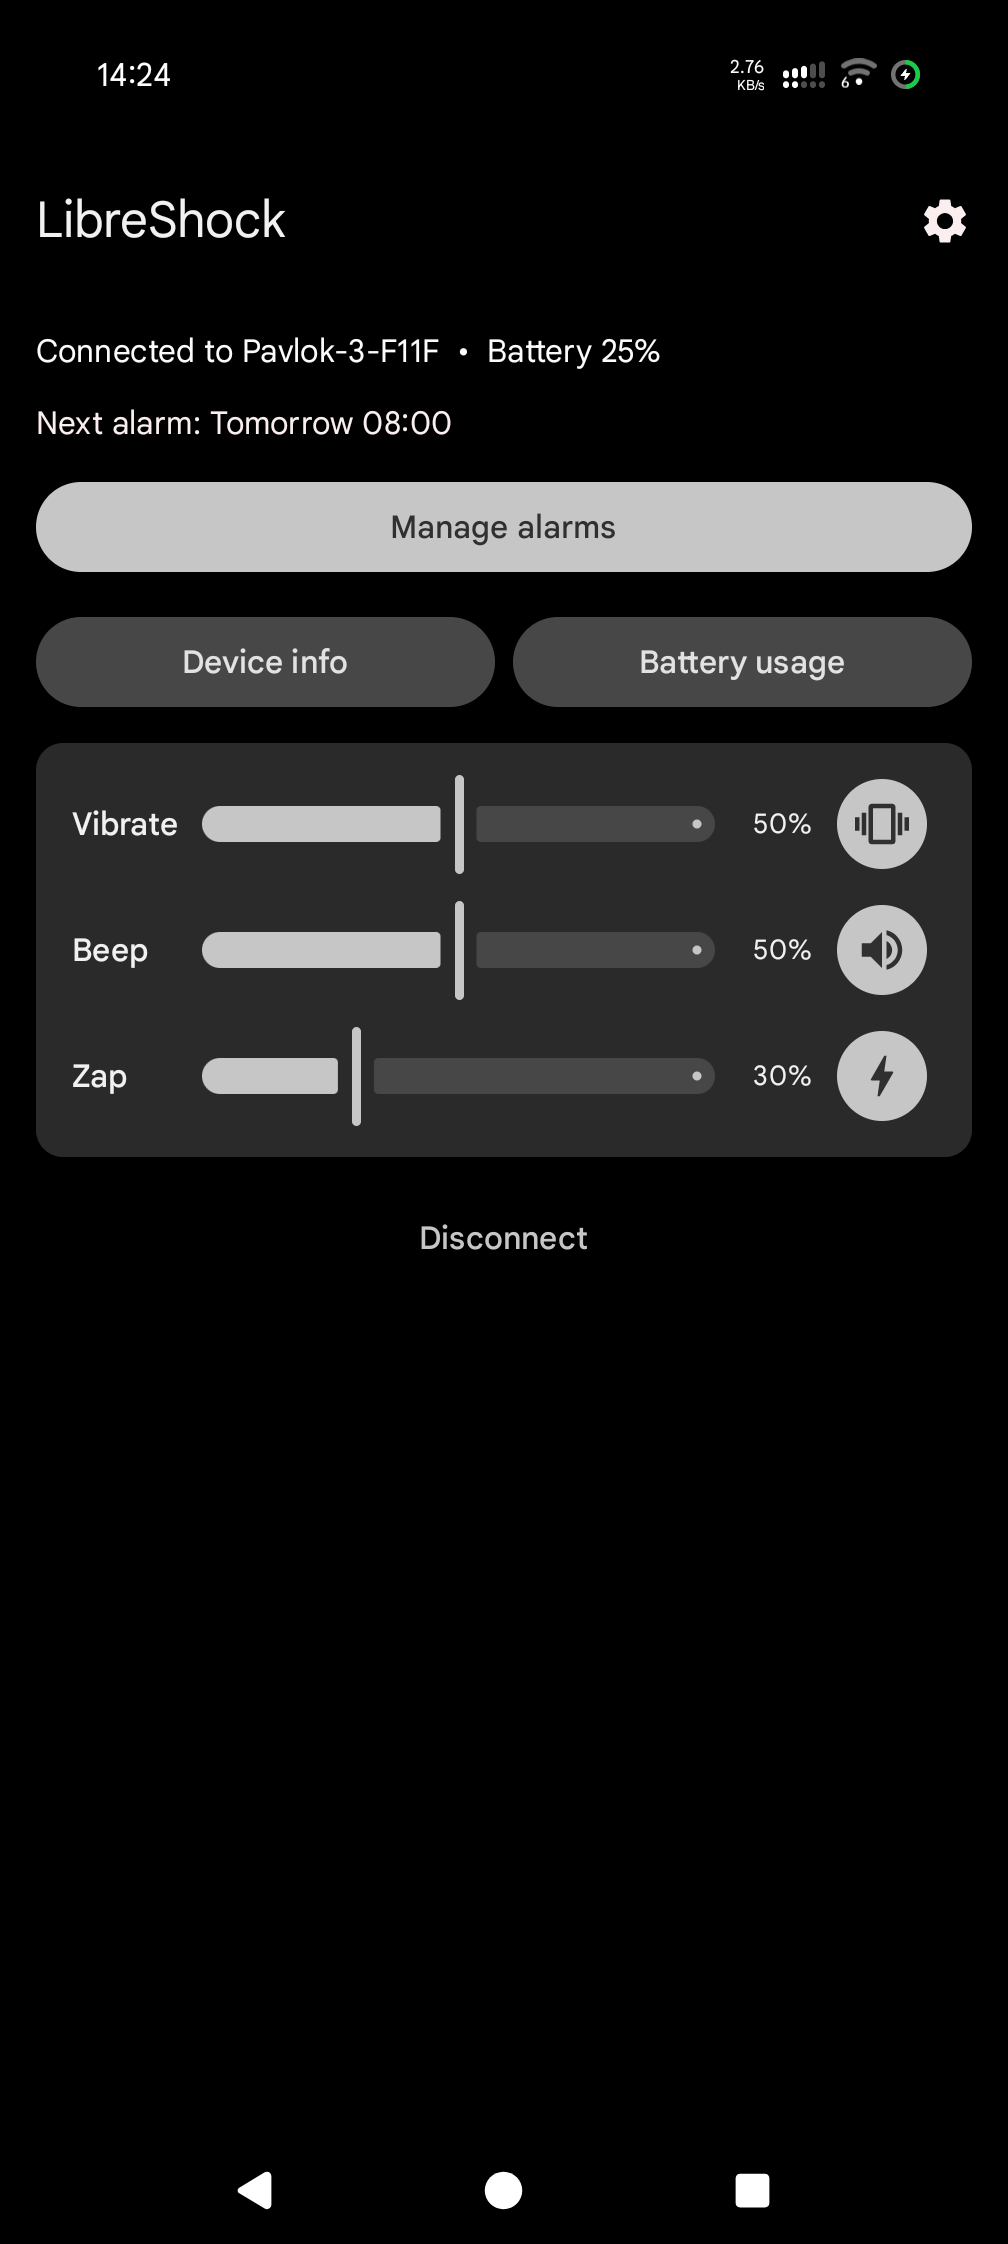
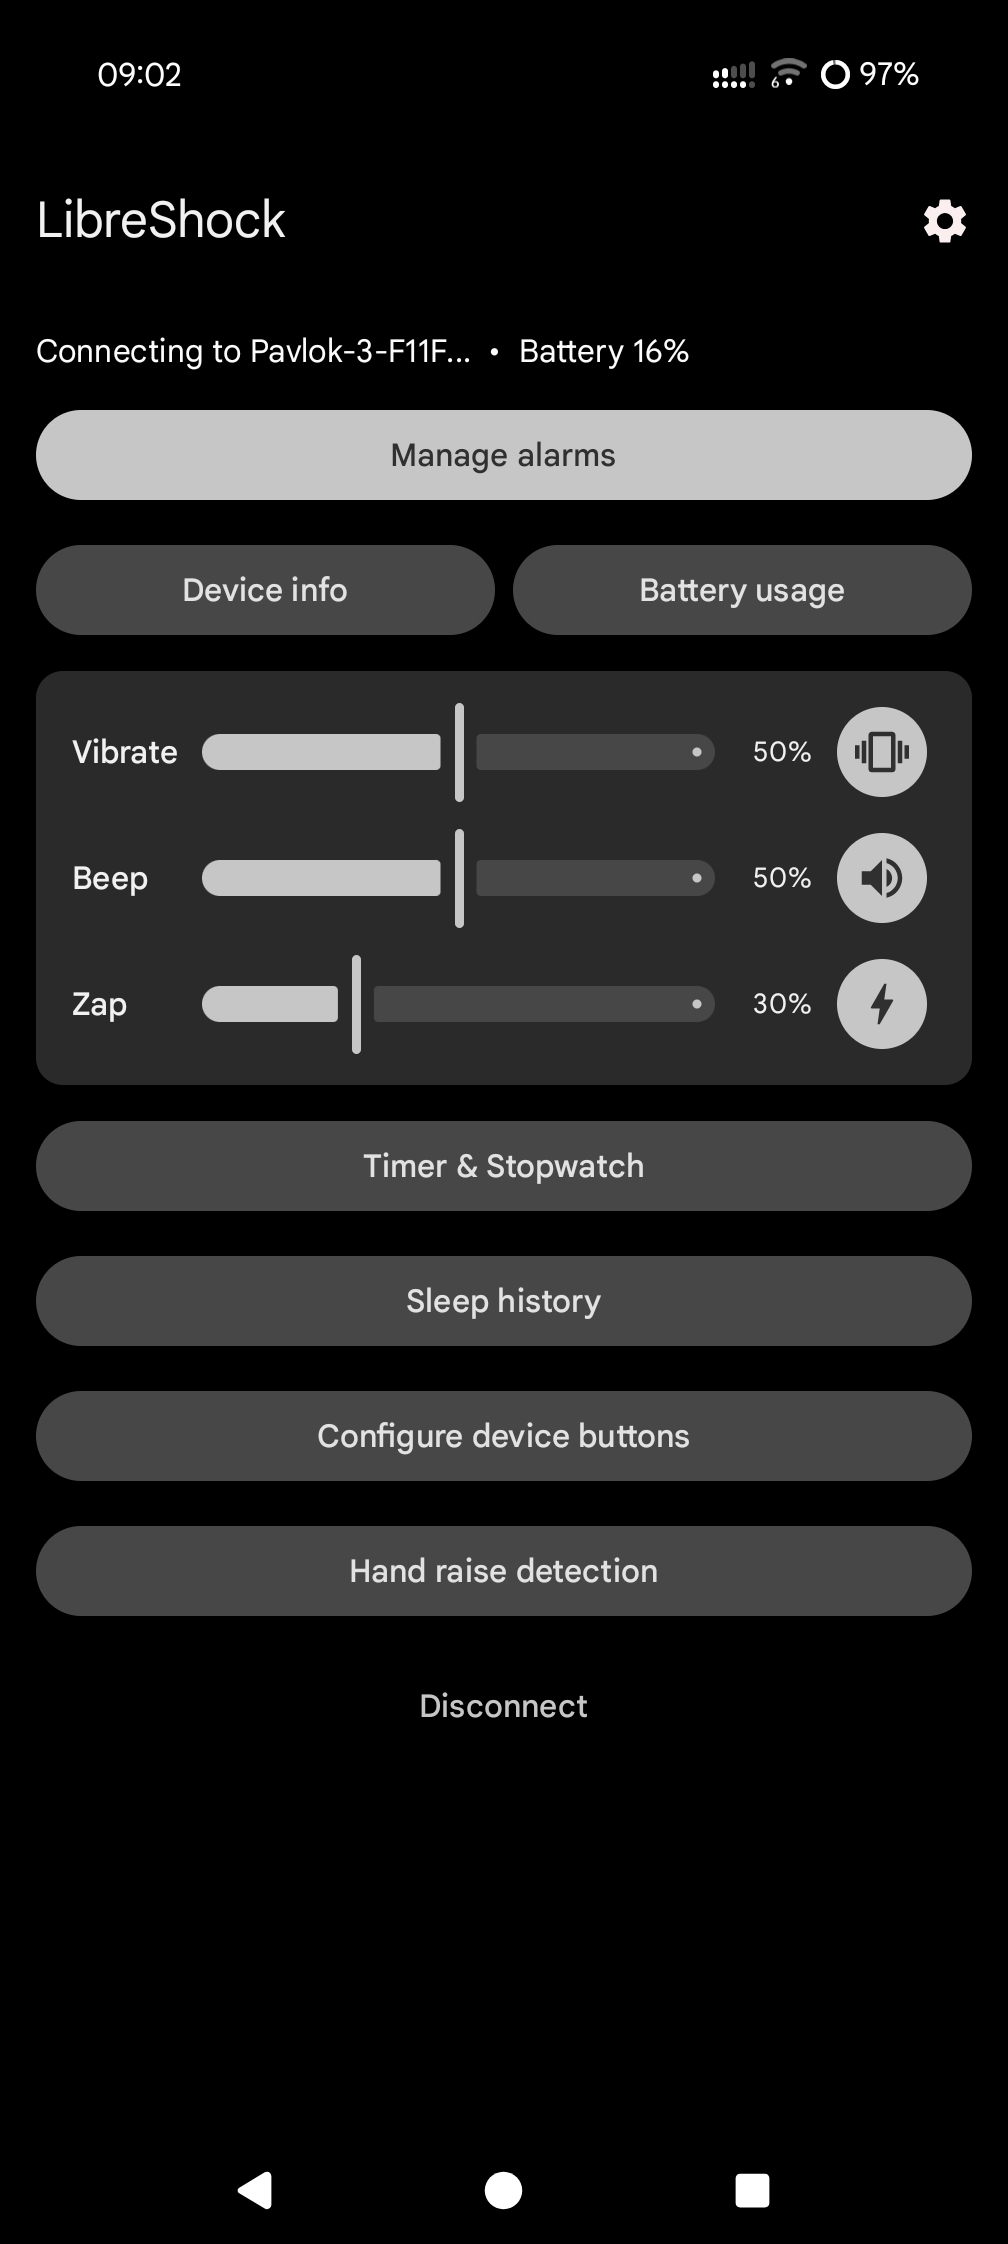
Docs: refresh Android screenshots for v0.2.0
- Replace main.png with current Pavlok-3-connected main screen
- Add edit-alarm-features.png (wake-up guarantor + additional features)
- Add hand-raise.png
- Add sleep-history.png

README screenshot grid expanded from 1x3 to 2x3 to show the post-v0.1
feature surface (guarantors, hand-raise, sleep history).

diff --git a/README.md b/README.md
@@ -139,6 +139,8 @@ Full command reference: **[docs/CLI.md](docs/CLI.md)**.
 | Main | Alarms | Edit alarm |
 |------|--------|------------|
 | ![Main screen](docs/images/main.png) | ![Alarms list](docs/images/alarms.png) | ![Edit alarm](docs/images/edit-alarm.png) |
+| **Wake-up features** | **Hand raise** | **Sleep history** |
+| ![Wake-up features](docs/images/edit-alarm-features.png) | ![Hand raise](docs/images/hand-raise.png) | ![Sleep history](docs/images/sleep-history.png) |
 
 Pre-built signed APKs are attached to each release on the
 **[Releases page](https://github.com/hairyfred/Libreshock/releases)** — grab
